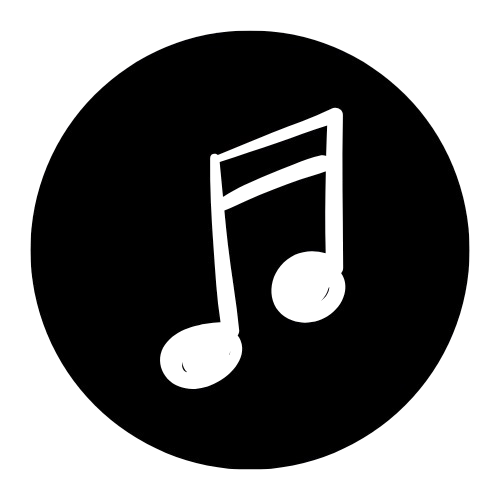
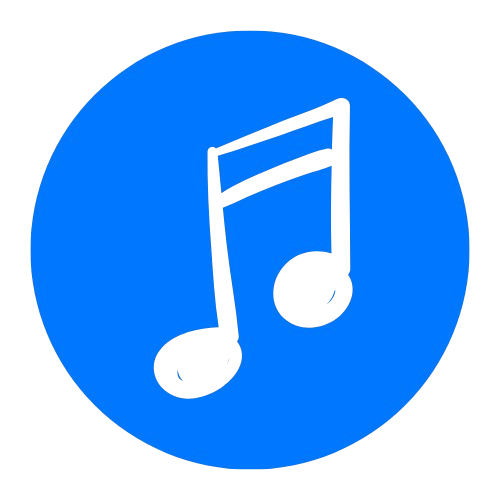
rota de login

diff --git a/spotifake/app/cadastro/index.jsx b/spotifake/app/cadastro/index.jsx
@@ -2,16 +2,56 @@ import { View, StyleSheet, Text } from "react-native"
 import { LinearGradient } from "expo-linear-gradient";
 import { Link } from "expo-router";
 import CadastroForm from "../../components/cadastroForm";
+import { useState } from "react";
 
 const Cadastro = () => {
+    const [formData, setFormData] = useState({
+        nome: '',
+        sobrenome: '',
+        email: '',
+        dataNascimento: '',
+        senha: ''
+    })
+
+    const handleChange = (e) => {
+        const { name, value } = e.target;
+        setFormData({
+            ...formData,
+            [name]: value
+        });
+    };
+
+    const handleButton = () => {
+        fetch('https://taskhub-s37f.onrender.com/auth/signup',
+            {
+                method: 'POST',
+                headers: {
+                    Accept: 'application/json',
+                    'Content-Type': 'application/json'
+                },
+                body: JSON.stringify({
+                    nome: formData.nome,
+                    sobrenome: formData.sobrenome,
+                    email: formData.email,
+                    dataNascimento: formData.dataNascimento,
+                    senha: formData.senha
+                })
+            })
+            .then(response => response.json())
+            .catch(error => {
+                console.error(error);
+            });
+    };
     return (
         <View style={styles.container}>
             <LinearGradient
                 colors={['#1F1F1F', 'black']}
                 style={styles.background}
             />
-            <Text style={styles.title}>Cadastrar</Text>
-            <CadastroForm />
+            <View style={styles.header}>
+                <Text style={styles.title}>Cadastro</Text>
+            </View>
+            <CadastroForm onchangeText={handleChange} formData={formData} onPress={handleButton} />
             <Text style={styles.signUpPath}>Já tem uma conta? <Link href={'/login'} style={styles.link}>Conecte-se</Link></Text>
         </View>
     )
@@ -31,6 +71,14 @@ const styles = StyleSheet.create({
         top: 0,
         height: '100%',
     },
+    header: {
+        width: '100%',
+        justifyContent: 'center',
+        alignItems: 'center',
+        top: 20,
+        left: 0,
+        position: 'absolute'
+    },
     title: {
         color: 'white',
         fontSize: 26,
@@ -40,7 +88,7 @@ const styles = StyleSheet.create({
         color: 'white',
     },
     link: {
-        color: 'blue'
+        color: '#0077FF'
     }
 }
 )

diff --git a/server/index.js b/server/index.js
@@ -1,6 +1,7 @@
 import Express from 'express';
 import { User, criarTabelas } from './db.js'
 import bcryptjs from 'bcryptjs'
+import jwt from 'jsonwebtoken'
 
 const app = Express()
 app.use(Express.json())
@@ -22,8 +23,8 @@ app.post('/registro', async function (req, res) {
             res.status(406).send('todos os campos devem ser preenchidos')
             return
         }
-        
-        if( await User.findOne({where:{email:email}})){
+
+        if (await User.findOne({ where: { email: email } })) {
             res.status(400).send('usuario ja existente no sistema')
             return
         }
@@ -39,6 +40,55 @@ app.post('/registro', async function (req, res) {
         res.status(201).send('ok usuario criado')
     } catch (erro) {
         console.log(erro)
+    }
+})
+
+app.post('/login', async function (req, res) {
+// validar informações
+
+    try {
+        const { email, senha } = req.body
+        if (!email || !senha) {
+            res.status(406).send('todos os campos devem ser preenchidos')
+            return
+        }
+// verificar a existencia do usuario
+
+        const usuario = await User.findOne({ where: { email: email } })
+        if (!usuario) {
+            res.send('este usuario não está cadastrado')
+            return
+        }
+
+// compara a senha enviada com a senha do banco de dados
+
+        const senhaCorreta = bcryptjs.compareSync(senha, usuario.senha)
+        if(!senhaCorreta) {
+            res.send('senha incorreta')
+            return
+        }
+// criar eum token de autenticação
+        const token = jwt.sign(
+            {
+                nome:usuario.nome,
+                email: usuario.email,
+                status: usuario.status
+            },
+            'chavecriptografiasupersegura',
+            {
+                expiresIn: "30d"
+            }
+        )
+
+        console.log(token) 
+
+        // devolver a resposta com o token  
+
+        res.send({msg: 'voce foi logado', token: token})
+        
+} catch (erro) {
+        console.log(erro)
+        res.status(500).send('houve um problema')
     }
 })
 

diff --git a/spotifake/components/cadastroForm.jsx b/spotifake/components/cadastroForm.jsx
@@ -1,47 +1,56 @@
 import { Pressable, StyleSheet, Text, View } from "react-native"
 import Input from "./input"
 import Button from "./button"
-import { useRouter } from "expo-router"
 
-const CadastroForm = () => {
-    const router = useRouter()
+const CadastroForm = ({onPress, onchangeText, formData}) => {
 
     return(
         <View style={styles.form}>
            <Input
                     label={'nome'}
+                    value={formData.nome}
+                    onChangeText={onchangeText}
                     caretHidden={false}
                 />
            <Input
                     label={'sobrenome'}
+                    value={formData.sobrenome}
+                    onChangeText={onchangeText}
                     caretHidden={false}
                 />
            <Input
                     label={'email'}
+                    value={formData.email}
+                    onChangeText={onchangeText}
                     caretHidden={false}
                 />
            <Input
                     label={'data de nascimento'}
+                    value={formData.dataNascimento}
+                    onChangeText={onchangeText}
                     caretHidden={false}
                 />
                 <Input
                     label={'senha'}
+                    value={formData.senha}
+                    onChangeText={onchangeText}
                     caretHidden={true}
                 />
                 <Input
                     label={'confirmar senha'}
+                    onChangeText={onchangeText}
                     caretHidden={true}
                 />
                 <Button 
                 title={'Cadastrar'}
-                onPress={() => (router.push('/home'))}/>
+                onPress={onPress}/>
         </View>
     )
 }
 
 const styles = StyleSheet.create ({
     form: {
-        gap: 16
+        gap: 16,
     }
 })
 

diff --git a/spotifake/components/input.jsx b/spotifake/components/input.jsx
@@ -7,6 +7,7 @@ const Input = ({ label, value, onChangeText, caretHidden }) => {
                 <TextInput
                 style={styles.input}
                     placeholder={label}
+                    placeholderTextColor={'#EEEEEE'}
                     value={value}
                     onChangeText={onChangeText}
                     caretHidden={caretHidden}
@@ -23,8 +24,10 @@ const styles = StyleSheet.create({
          fontSize: 16
     },
      input :{
-        height: 38,
-        width: 250,
+        height: 42,
+        minWidth: 250,
+        width: '90%',
+        maxWidth: 320,
         backgroundColor: '#1B1B1B',
         borderColor: '#ccc',  
         borderWidth: 1,        

diff --git a/spotifake/app/login/index.jsx b/spotifake/app/login/index.jsx
@@ -10,7 +10,7 @@ const login = () => {
                 colors={['#1F1F1F', 'black']}
                 style={styles.background}
             />
-            <Text style={styles.title}>Entrar no spotifake</Text>
+            <Text style={styles.title}>Entrar</Text>
             <LoginForm />
             <Text style={styles.forgotPassword}>esqueceu a senha?</Text>
             <Text style={styles.signUpPath}>Não tem uma conta? <Link href={'/cadastro'} style={styles.link}>Cadastre-se</Link></Text>
@@ -47,7 +47,7 @@ const styles = StyleSheet.create({
     },
 
     link: {
-        color: 'blue'
+        color: '#0077FF'
     }
 }
 )

diff --git a/spotifake/components/loginForm.jsx b/spotifake/components/loginForm.jsx
@@ -3,8 +3,8 @@ import Input from "./input"
 import Button from "./button"
 import { useRouter } from "expo-router"
 
-const LoginForm = () => {
-    const router = useRouter()
+const LoginForm = ({onPress}) => {
+    
     return (
         <View style={styles.form}>
             <Input
@@ -16,8 +16,8 @@ const LoginForm = () => {
                 caretHidden={true}
             />
             <Button 
-            title={'Entrar'}
-            onPress={()=>(router.push('/home'))}/>
+            title={'Conectar'}
+            onPress={onPress}/>
         </View>
     )
 }

diff --git a/spotifake/components/button.jsx b/spotifake/components/button.jsx
@@ -22,8 +22,9 @@ const styles = StyleSheet.create({
         width: 250,
         alignItems: 'center',
         justifyContent: 'center',
-        backgroundColor: '#358CD6',
-        borderRadius: 6
+        backgroundColor: '#0077FF',
+        borderRadius: 6,
+        marginVertical: 6
     },
     title:{
         fontSize: 16,

diff --git a/spotifake/app/pesquisa/index.jsx b/spotifake/app/pesquisa/index.jsx
@@ -48,7 +48,6 @@ const styles = StyleSheet.create ({
     },
     placeholder: {
         width: 200,
-       
     }
 })
 
